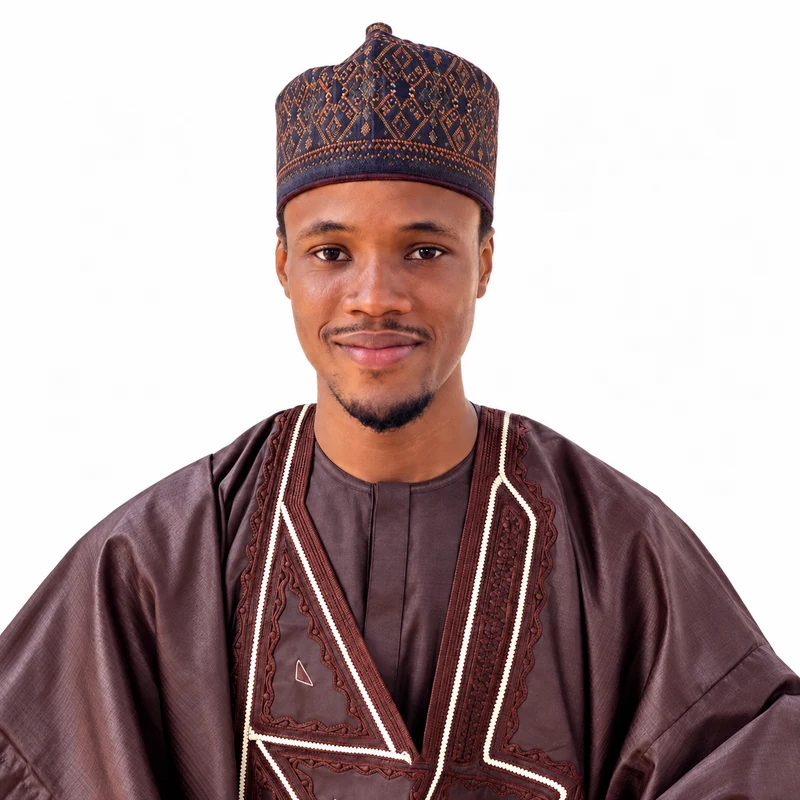
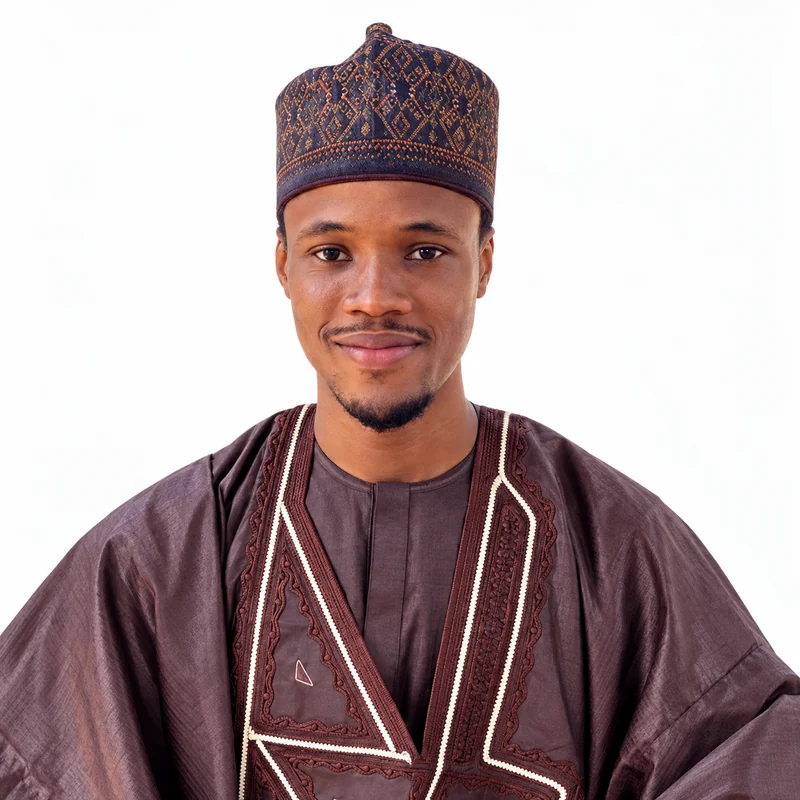
Ambassador page update

diff --git a/ambassador.html b/ambassador.html
@@ -1,0 +1,155 @@
+<!DOCTYPE html>
+<html lang="en">
+  <head>
+    <meta charset="utf-8" />
+    <meta name="viewport" content="width=device-width,initial-scale=1" />
+    <meta name="theme-color" content="#07182b" />
+    <meta
+      name="description"
+      content="Explore MUA’s commission-based ambassador programme, responsibilities and selection process."
+    />
+    <title>Ambassador Programme — MUA Global Innovation Ltd</title>
+    <link rel="canonical" href="https://muaglobalinnovation.com/ambassador.html" />
+    <meta property="og:type" content="website" />
+    <meta property="og:title" content="Ambassador Programme — MUA Global Innovation Ltd" />
+    <meta property="og:description" content="Explore MUA’s commission-based ambassador programme, responsibilities and selection process." />
+    <meta property="og:url" content="https://muaglobalinnovation.com/ambassador.html" />
+    <meta property="og:image" content="https://muaglobalinnovation.com/assets/mua-innovation-hero.webp" />
+    <meta name="twitter:card" content="summary_large_image" />
+    <link rel="preconnect" href="https://fonts.googleapis.com" />
+    <link rel="preconnect" href="https://fonts.gstatic.com" crossorigin />
+    <link
+      href="https://fonts.googleapis.com/css2?family=DM+Sans:wght@400;500;600;700&family=Manrope:wght@600;700;800&display=swap"
+      rel="stylesheet"
+    />
+    <link rel="icon" type="image/png" href="assets/mua-logo-shield.png" />
+    <link rel="stylesheet" href="assets/styles.css?v=20260927-team2" />
+    <link rel="stylesheet" href="assets/ambassador.css?v=20260929" />
+  </head>
+  <body class="inner-page">
+    <a class="skip-link" href="#main">Skip to main content</a>
+    <header class="site-header scrolled">
+      <div class="container nav-wrap">
+        <a class="brand" href="index.html" aria-label="MUA Global Innovation home"
+          ><img
+            class="brand-logo"
+            src="assets/mua-logo-shield.png"
+            alt=""
+          /><span
+            ><strong>MUA</strong><small>Global Innovation Ltd</small></span
+          ></a
+        ><button
+          class="menu-toggle"
+          aria-expanded="false"
+          aria-controls="primary-nav"
+          aria-label="Open navigation"
+        >
+          <span></span><span></span><span></span>
+        </button>
+        <nav class="primary-nav" id="primary-nav">
+          <a href="index.html">Home</a><a href="about.html">About</a
+          ><a href="solutions.html">Solutions</a><a href="ventures.html">Ventures</a><a href="proposal.html">Website proposal</a
+          ><a href="contact.html" class="nav-cta">Start a project</a>
+          <a href="ambassador.html" class="active" aria-current="page">Ambassadors</a>
+        </nav>
+      </div>
+    </header>
+    <main id="main">
+      <section class="page-hero ambassador-hero">
+        <div class="container ambassador-hero-grid">
+          <div>
+            <p class="eyebrow"><span></span>Grow with MUA</p>
+            <h1>Local connections.<br><em>Greater possibilities.</em></h1>
+            <p class="ambassador-lead">Introduce schools, businesses and organisations to technology that helps them grow. Represent MUA in your community and earn commission on qualifying client referrals.</p>
+            <a class="button button-primary" href="#apply">Explore the opportunity <span>↗</span></a>
+          </div>
+          <aside class="ambassador-summary">
+            <span class="ambassador-tag">State ambassador programme</span>
+            <h2>Build relationships.<br>Make introductions.<br>Earn commission.</h2>
+            <dl><div><dt>Programme</dt><dd>Business Development Ambassador</dd></div><div><dt>Compensation</dt><dd>Commission-based · No fixed salary</dd></div><div><dt>Selection</dt><dd>Application, review &amp; interview</dd></div></dl>
+            <p>Registration is an application, not an appointment. Only selected candidates receive appointment letters.</p>
+          </aside>
+        </div>
+      </section>
+      <section class="section"><div class="container">
+        <p class="section-label">The opportunity</p><h2>Connect real needs with practical solutions.</h2>
+        <div class="ambassador-cards">
+          <article><span>01 / Introduce</span><h3>Find opportunities</h3><p>Identify schools, businesses and organisations that need websites, software or other MUA services.</p></article>
+          <article><span>02 / Connect</span><h3>Build trust</h3><p>Explain our services accurately and introduce interested clients to the MUA team for assessment and quotations.</p></article>
+          <article><span>03 / Follow through</span><h3>Support relationships</h3><p>Follow up respectfully, keep referral records and help the team understand each client’s needs.</p></article>
+        </div>
+      </div></section>
+      <section class="section ambassador-soft"><div class="container ambassador-two">
+        <div><p class="section-label">Who should apply?</p><h2>Good communication.<br>Genuine commitment.</h2><p>We will consider relevant experience, local knowledge, professionalism and a practical plan for finding clients—not qualifications alone.</p></div>
+        <div class="ambassador-panel"><h3>What we look for</h3><ul><li>Clear communication and responsible conduct.</li><li>Knowledge of businesses and organisations in your state.</li><li>Interest in technology and willingness to learn MUA’s services.</li><li>Time to follow up with prospective clients.</li><li>Relevant sales, outreach or customer-relations experience is an advantage.</li></ul><p>No application fee. Do not send NIN, BVN, banking details or identity documents with your initial application.</p></div>
+      </div></section>
+      <section class="section"><div class="container"><p class="section-label">A transparent process</p><h2>From application to appointment.</h2>
+        <div class="proposal-steps"><article><b>01</b><h3>Apply</h3><p>Tell us about your background, state and approach to finding clients.</p></article><article><b>02</b><h3>Review</h3><p>We assess suitability, experience, availability and programme needs.</p></article><article><b>03</b><h3>Meet the team</h3><p>Shortlisted applicants discuss their approach and the role’s expectations.</p></article><article><b>04</b><h3>Agree &amp; onboard</h3><p>Selected candidates receive written terms and an appointment letter before starting.</p></article></div>
+      </div></section>
+      <section class="section ambassador-soft" id="apply"><div class="container ambassador-two">
+        <div><p class="section-label">Your next chapter</p><h2>Apply to represent MUA.</h2><p>Prepare your full name, email, phone number, state and LGA, education or occupation, relevant experience, availability and a short client-outreach plan. A CV or professional profile can support your application.</p><p><strong>Before you apply:</strong> this is commission-based, with no fixed monthly salary. Commission rates, qualifying payments, expenses and payment timing must be agreed in writing before appointment.</p></div>
+        <div class="ambassador-panel" aria-labelledby="application-heading"><span class="ambassador-tag">Application portal</span><h3 id="application-heading">Register your interest</h3><p id="application-status" role="status">Applications are not open yet. The registration form will appear here once it is ready.</p><a id="application-link" class="button button-primary full" hidden target="_blank" rel="noopener noreferrer">Open application form <span>↗</span></a><p id="application-privacy" hidden>Your application will open on our external form provider. Read the privacy notice there before sharing your information. Only submit when you understand the commission-based terms.</p><noscript><p>Enable JavaScript to check whether applications are open.</p></noscript><p class="form-note">Applying does not guarantee selection, employment or an exclusive state territory. An appointment is confirmed only in writing by MUA.</p></div>
+      </div></section>
+      <section class="section"><div class="container ambassador-faq"><p class="section-label">Before you apply</p><h2>Your questions, answered.</h2>
+        <details><summary>Is this a salaried job?</summary><p>No fixed monthly salary is offered. Compensation is commission-based, subject to the written terms agreed before appointment. Income is not guaranteed.</p></details>
+        <details><summary>What is the commission rate?</summary><p>The rate and calculation basis will be disclosed and agreed in writing before you accept an appointment. Do not assume a percentage or start work on the basis of an estimate.</p></details>
+        <details><summary>Can ambassadors collect client payments?</summary><p>Clients should pay MUA through its approved company payment channels. Ambassadors must not collect payments into personal accounts or make unauthorised commitments on MUA’s behalf.</p></details>
+        <details><summary>Does registration guarantee an appointment?</summary><p>No. MUA reviews applications, shortlists suitable candidates and issues appointment letters only after selection and agreement on the terms.</p></details>
+        <details><summary>Will MUA pay my travel or promotional expenses?</summary><p>Do not assume expenses will be reimbursed. Obtain written approval before incurring costs on behalf of MUA.</p></details>
+      </div></section>
+    </main>
+    <footer class="site-footer">
+      <div class="container footer-shell">
+        <div class="footer-brand-block">
+          <a
+            class="footer-lockup"
+            href="index.html"
+            aria-label="MUA Global Innovation home"
+            ><img src="assets/mua-logo-shield.png" alt="" /><span
+              class="footer-wordmark"
+              ><strong>MUA</strong><small>Global Innovation Ltd</small></span
+            ></a
+          >
+          <p>
+            We design and engineer secure digital products that help schools, businesses and organisations
+            solve real problems and grow with confidence.
+          </p>
+          <span class="footer-location"
+            >Kano, Nigeria · Building for Africa</span
+          >
+        </div>
+        <div class="footer-column">
+          <h3>Company</h3>
+          <a href="ambassador.html">Ambassador programme</a>
+          <a href="about.html">About us</a><a href="ventures.html">Our ventures</a
+          ><a href="contact.html">Contact</a>
+        </div>
+        <div class="footer-column">
+          <h3>Solutions</h3>
+          <a href="solutions.html">Product strategy</a
+          ><a href="solutions.html">Websites &amp; software</a
+          ><a href="solutions.html">Digital transformation</a>
+        </div>
+        <div class="footer-column footer-contact">
+          <h3>Start a conversation</h3>
+          <a href="tel:+2347068744549">+234 706 874 4549</a
+          >
+          <a href="tel:+2348025063991">+234 802 506 3991</a><a
+            class="footer-action"
+            href="https://wa.me/2347068744549"
+            target="_blank"
+            rel="noopener"
+            >Message us on WhatsApp <span>↗</span></a
+          >
+        </div>
+      </div>
+      <div class="container footer-bottom">
+        <span>© <span id="year"></span> MUA Global Innovation Ltd.</span
+        ><span>Technology company · Nigeria</span
+        ><a href="#main">Back to top ↑</a>
+      </div>
+    </footer>
+    <script src="assets/script.js"></script>
+  <script src="assets/ambassador-config.js"></script><script src="assets/ambassador.js"></script>
+  </body>
+</html>

diff --git a/assets/ambassador.css b/assets/ambassador.css
@@ -1,0 +1,5 @@
+.ambassador-hero{background:radial-gradient(ellipse at 90% 20%,#124c4a 0,transparent 50%),var(--navy);color:#fff;padding:150px 0 80px}
+.ambassador-hero-grid{display:grid;grid-template-columns:1.4fr 1fr;gap:64px;align-items:center}.ambassador-hero h1{font-size:clamp(2.6rem,5vw,4.4rem);line-height:1.12}.ambassador-hero em{font-style:normal;color:var(--green)}.ambassador-lead{max-width:600px;color:#d0dce8;font-size:1.08rem;margin-bottom:30px}.ambassador-summary{padding:32px;border:1px solid #ffffff30;background:#ffffff08;border-radius:22px}.ambassador-tag{display:inline-block;font-size:.73rem;font-weight:700;letter-spacing:.09em;text-transform:uppercase;padding:7px 11px;border-radius:30px;background:#29d39120;color:#147451}.ambassador-summary .ambassador-tag{color:#8df0c7}.ambassador-summary h2{font-size:1.8rem;line-height:1.3;margin:24px 0}.ambassador-summary dl div{padding:12px 0;border-top:1px solid #ffffff20}.ambassador-summary dt{font-size:.78rem;color:#b2c5d7}.ambassador-summary dd{margin:2px 0 0;font-weight:600}.ambassador-summary>p{font-size:.84rem;color:#c2d2df}.ambassador-cards{display:grid;grid-template-columns:repeat(3,1fr);gap:22px;margin-top:36px}.ambassador-cards article,.ambassador-panel{border:1px solid var(--line);padding:30px;border-radius:18px;background:#fff}.ambassador-cards span{font-weight:700;color:#176ac2;font-size:.8rem}.ambassador-cards h3{margin:24px 0 14px;font-size:1.45rem}.ambassador-cards p,.ambassador-two p{color:var(--muted)}.ambassador-soft{background:var(--soft)}.ambassador-two{display:grid;grid-template-columns:1fr 1fr;gap:65px;align-items:start}.ambassador-two h2{font-size:clamp(2rem,3.7vw,3.3rem)}.ambassador-panel h3{font-size:1.6rem;margin:20px 0}.ambassador-panel li{margin:12px 0}.ambassador-panel ul{padding-left:20px}.ambassador-faq{max-width:900px}.ambassador-faq details{padding:22px 0;border-bottom:1px solid var(--line)}.ambassador-faq summary{font-weight:700;cursor:pointer}.ambassador-faq details p{color:var(--muted);margin-bottom:0}#application-link[hidden],#application-privacy[hidden]{display:none!important}#application-link{margin:22px 0}#application-privacy{font-size:.85rem}.ambassador-panel a:focus-visible,summary:focus-visible{outline:3px solid var(--blue);outline-offset:5px}
+@media(min-width:901px){.primary-nav{gap:18px}.primary-nav>a{font-size:13px}}
+@media(max-width:900px){.ambassador-hero-grid,.ambassador-two{grid-template-columns:1fr;gap:30px}.ambassador-hero{padding:120px 0 55px}.ambassador-cards{grid-template-columns:1fr}.ambassador-summary{max-width:600px}}
+@media(max-width:600px){.ambassador-panel,.ambassador-summary,.ambassador-cards article{padding:24px}.ambassador-hero h1{font-size:2.55rem}}

diff --git a/about.html b/about.html
@@ -24,6 +24,7 @@
     />
     <link rel="icon" type="image/png" href="assets/mua-logo-shield.png" />
     <link rel="stylesheet" href="assets/styles.css?v=20260927-team2" />
+    <link rel="stylesheet" href="assets/ambassador.css?v=20260929" />
   </head>
   <body class="inner-page">
     <a class="skip-link" href="#main">Skip to main content</a>
@@ -55,6 +56,7 @@
           <a href="solutions.html">Solutions</a
           ><a href="ventures.html">Ventures</a><a href="proposal.html">Website proposal</a>
           <a href="contact.html" class="nav-cta">Start a project</a>
+          <a href="ambassador.html">Ambassadors</a>
         </nav>
       </div>
     </header>
@@ -204,7 +206,7 @@
               <img src="assets/umar-saeed.webp" alt="Portrait of Umar Saeed Umar" width="800" height="800" loading="lazy" />
               <div class="team-card-copy">
                 <h3>Umar Saeed Umar</h3>
-                <p class="team-role">Co-founder &amp; Chief Executive Officer</p>
+                <p class="team-role">Co-founder &amp; CEO</p>
                 <p>Leads MUA's direction and builds its digital products.</p>
               </div>
             </article>
@@ -220,7 +222,7 @@
               <img src="assets/abdulkadir-sabo-abdulkadir.webp" alt="Portrait of Abdulkadir Sabo Abdulkadir" width="800" height="800" loading="lazy" />
               <div class="team-card-copy">
                 <h3>Abdulkadir Sabo Abdulkadir</h3>
-                <p class="team-role">Co-founder &amp; Chief Finance Officer</p>
+                <p class="team-role">Chief Finance Officer</p>
                 <p>Oversees financial planning and helps keep MUA's resources accountable.</p>
               </div>
             </article>
@@ -277,6 +279,7 @@
         </div>
         <div class="footer-column">
           <h3>Company</h3>
+          <a href="ambassador.html">Ambassador programme</a>
           <a href="about.html">About us</a><a href="ventures.html">Our ventures</a
           ><a href="contact.html">Contact</a>
         </div>

diff --git a/contact.html b/contact.html
@@ -23,7 +23,8 @@
       rel="stylesheet"
     />
     <link rel="icon" type="image/png" href="assets/mua-logo-shield.png" />
-    <link rel="stylesheet" href="assets/styles.css?v=20260924-2" />
+    <link rel="stylesheet" href="assets/styles.css?v=20260927-team2" />
+    <link rel="stylesheet" href="assets/ambassador.css?v=20260929" />
   </head>
   <body class="inner-page">
     <a class="skip-link" href="#main">Skip to main content</a>
@@ -49,6 +50,7 @@
           <a href="index.html">Home</a><a href="about.html">About</a
           ><a href="solutions.html">Solutions</a><a href="ventures.html">Ventures</a><a href="proposal.html">Website proposal</a
           ><a href="contact.html" class="nav-cta active">Start a project</a>
+          <a href="ambassador.html">Ambassadors</a>
         </nav>
       </div>
     </header>
@@ -168,6 +170,7 @@
         </div>
         <div class="footer-column">
           <h3>Company</h3>
+          <a href="ambassador.html">Ambassador programme</a>
           <a href="about.html">About us</a><a href="ventures.html">Our ventures</a
           ><a href="contact.html">Contact</a>
         </div>

diff --git a/proposal.html b/proposal.html
@@ -23,7 +23,8 @@
       rel="stylesheet"
     />
     <link rel="icon" type="image/png" href="assets/mua-logo-shield.png" />
-    <link rel="stylesheet" href="assets/styles.css?v=20260924-2" />
+    <link rel="stylesheet" href="assets/styles.css?v=20260927-team2" />
+    <link rel="stylesheet" href="assets/ambassador.css?v=20260929" />
   </head>
   <body class="inner-page">
     <a class="skip-link" href="#main">Skip to main content</a>
@@ -50,6 +51,7 @@
           ><a href="solutions.html">Solutions</a
           ><a href="ventures.html">Ventures</a><a href="proposal.html" class="active">Website proposal</a
           ><a href="contact.html" class="nav-cta">Start a project</a>
+          <a href="ambassador.html">Ambassadors</a>
         </nav>
       </div>
     </header>
@@ -115,6 +117,7 @@
         </div>
         <div class="footer-column">
           <h3>Company</h3>
+          <a href="ambassador.html">Ambassador programme</a>
           <a href="about.html">About us</a><a href="ventures.html">Our ventures</a
           ><a href="contact.html">Contact</a>
         </div>

diff --git a/solutions.html b/solutions.html
@@ -23,7 +23,8 @@
       rel="stylesheet"
     />
     <link rel="icon" type="image/png" href="assets/mua-logo-shield.png" />
-    <link rel="stylesheet" href="assets/styles.css?v=20260924-2" />
+    <link rel="stylesheet" href="assets/styles.css?v=20260927-team2" />
+    <link rel="stylesheet" href="assets/ambassador.css?v=20260929" />
   </head>
   <body class="inner-page">
     <a class="skip-link" href="#main">Skip to main content</a>
@@ -50,6 +51,7 @@
           ><a href="solutions.html" class="active">Solutions</a
           ><a href="ventures.html">Ventures</a><a href="proposal.html">Website proposal</a
           ><a href="contact.html" class="nav-cta">Start a project</a>
+          <a href="ambassador.html">Ambassadors</a>
         </nav>
       </div>
     </header>
@@ -224,6 +226,7 @@
         </div>
         <div class="footer-column">
           <h3>Company</h3>
+          <a href="ambassador.html">Ambassador programme</a>
           <a href="about.html">About us</a><a href="ventures.html">Our ventures</a
           ><a href="contact.html">Contact</a>
         </div>

diff --git a/ventures.html b/ventures.html
@@ -23,7 +23,8 @@
       rel="stylesheet"
     />
     <link rel="icon" type="image/png" href="assets/mua-logo-shield.png" />
-    <link rel="stylesheet" href="assets/styles.css?v=20260924-2" />
+    <link rel="stylesheet" href="assets/styles.css?v=20260927-team2" />
+    <link rel="stylesheet" href="assets/ambassador.css?v=20260929" />
   </head>
   <body class="inner-page">
     <a class="skip-link" href="#main">Skip to main content</a>
@@ -50,6 +51,7 @@
           ><a href="solutions.html">Solutions</a
           ><a href="ventures.html" class="active">Ventures</a
           ><a href="proposal.html">Website proposal</a><a href="contact.html" class="nav-cta">Start a project</a>
+          <a href="ambassador.html">Ambassadors</a>
         </nav>
       </div>
     </header>
@@ -175,6 +177,7 @@
         </div>
         <div class="footer-column">
           <h3>Company</h3>
+          <a href="ambassador.html">Ambassador programme</a>
           <a href="about.html">About us</a><a href="ventures.html">Our ventures</a
           ><a href="contact.html">Contact</a>
         </div>

diff --git a/index.html b/index.html
@@ -23,7 +23,8 @@
       rel="stylesheet"
     />
     <link rel="icon" type="image/png" href="assets/mua-logo-shield.png" />
-    <link rel="stylesheet" href="assets/styles.css?v=20260924-2" />
+    <link rel="stylesheet" href="assets/styles.css?v=20260927-team2" />
+    <link rel="stylesheet" href="assets/ambassador.css?v=20260929" />
   </head>
   <body>
     <a class="skip-link" href="#main">Skip to main content</a>
@@ -51,6 +52,7 @@
           <a href="solutions.html">Solutions</a>
           <a href="ventures.html">Ventures</a><a href="proposal.html">Website proposal</a>
           <a href="contact.html" class="nav-cta">Start a project</a>
+          <a href="ambassador.html">Ambassadors</a>
         </nav>
       </div>
     </header>
@@ -411,6 +413,7 @@
         </div>
         <div class="footer-column">
           <h3>Company</h3>
+          <a href="ambassador.html">Ambassador programme</a>
           <a href="about.html">About us</a
           ><a href="ventures.html">Our ventures</a
           ><a href="contact.html">Contact</a>

diff --git a/assets/ambassador.js b/assets/ambassador.js
@@ -1,0 +1,13 @@
+(() => {
+  const raw = window.MUA_AMBASSADOR_FORM_URL;
+  if (!raw) return;
+  let url;
+  try { url = new URL(raw); } catch { return; }
+  if (url.protocol !== 'https:' || !['docs.google.com','forms.gle','tally.so'].includes(url.hostname)) return;
+  const link = document.querySelector('#application-link');
+  if (!link) return;
+  link.href = url.href;
+  link.hidden = false;
+  document.querySelector('#application-privacy').hidden = false;
+  document.querySelector('#application-status').textContent = 'Applications are open. Complete the application form for review by the MUA team.';
+})();

diff --git a/assets/ambassador-config.js b/assets/ambassador-config.js
@@ -1,0 +1,3 @@
+// Add your published Google Forms or Tally application URL here.
+// Empty means applications remain closed. No applicant data is collected by this website.
+window.MUA_AMBASSADOR_FORM_URL = 'https://tally.so/r/QKP0Rg';

diff --git a/AMBASSADOR-SETUP.md b/AMBASSADOR-SETUP.md
@@ -1,0 +1,17 @@
+# Ambassador application setup
+
+The new page is ambassador.html, linked from all menus and footers. Existing content, photos and CNAME are preserved.
+
+The application button is configured to open https://tally.so/r/QKP0Rg. The owner confirmed a successful test submission. Upload these updated files to your website to activate the link there; no public deployment has been performed. Applications are received by Tally, not stored in the website itself. An admin dashboard is not included.
+
+1. Create a Google Form or Tally form in a company-controlled account.
+2. Collect full name, email, phone, state/LGA, education or occupation, relevant experience, availability, motivation and a client-outreach plan. Make CV upload optional. Do not collect NIN, BVN, bank details or ID documents at this stage.
+3. Require acknowledgement of commission-based compensation/no fixed salary, no guaranteed appointment, and the privacy notice. Agree rates, qualifying referrals, payment timing, cancellations and expenses in writing before appointment. No commission percentage is assumed in this website.
+4. Add a privacy notice explaining the purpose, authorised reviewers, retention period and how applicants can request deletion. Keep response spreadsheets and CVs private.
+5. Copy the public respondent link (not the editor link) into assets/ambassador-config.js. Supported HTTPS hosts: docs.google.com, forms.gle, tally.so.
+6. Test the form from a phone and confirm a test submission arrives in your private dashboard. Check any sign-in requirement for CV uploads. Delete test responses afterwards.
+7. Upload the HTML files and assets to your GitHub Pages repository root, preserving CNAME. The page URL is /ambassador.html. Check the live form and mobile menu before announcing recruitment.
+
+Review applications, shortlist, interview and issue appointment letters manually after agreeing terms. Automatic scoring, appointment letters and an admin dashboard are not included.
+
+To close applications: clear the URL in assets/ambassador-config.js AND close the external form to new responses.
